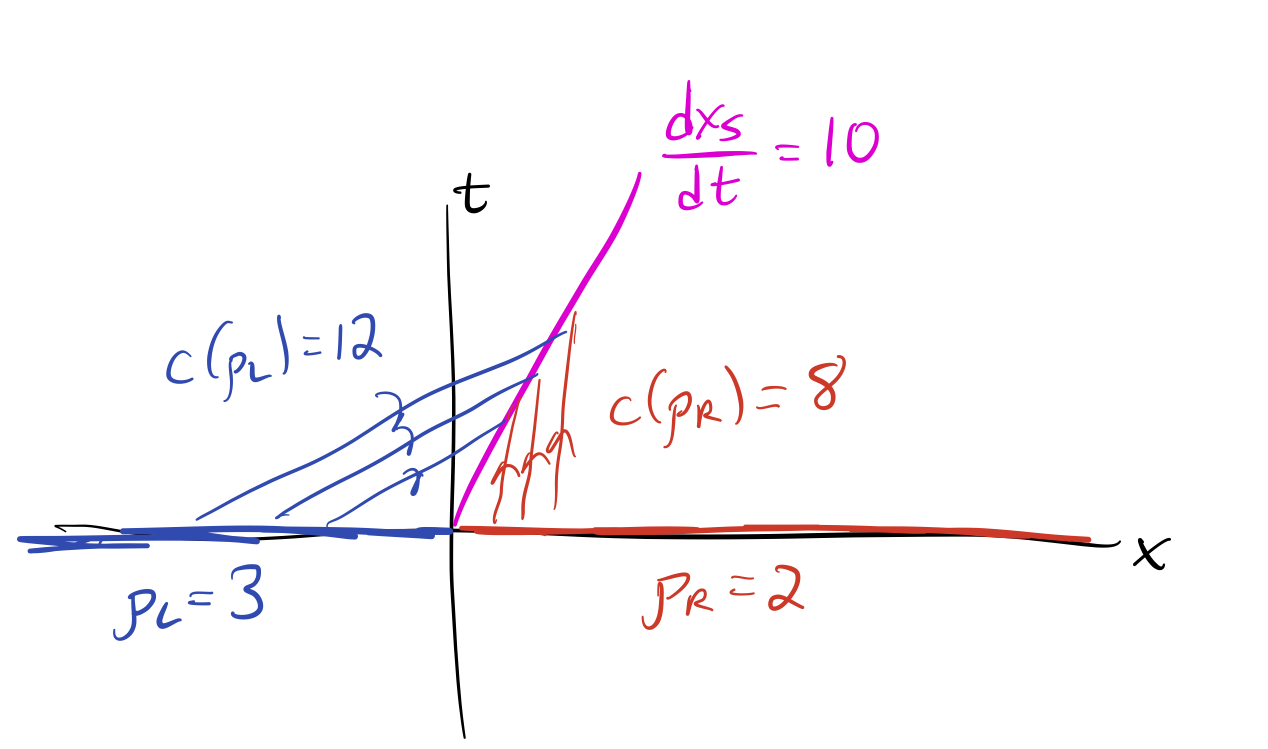
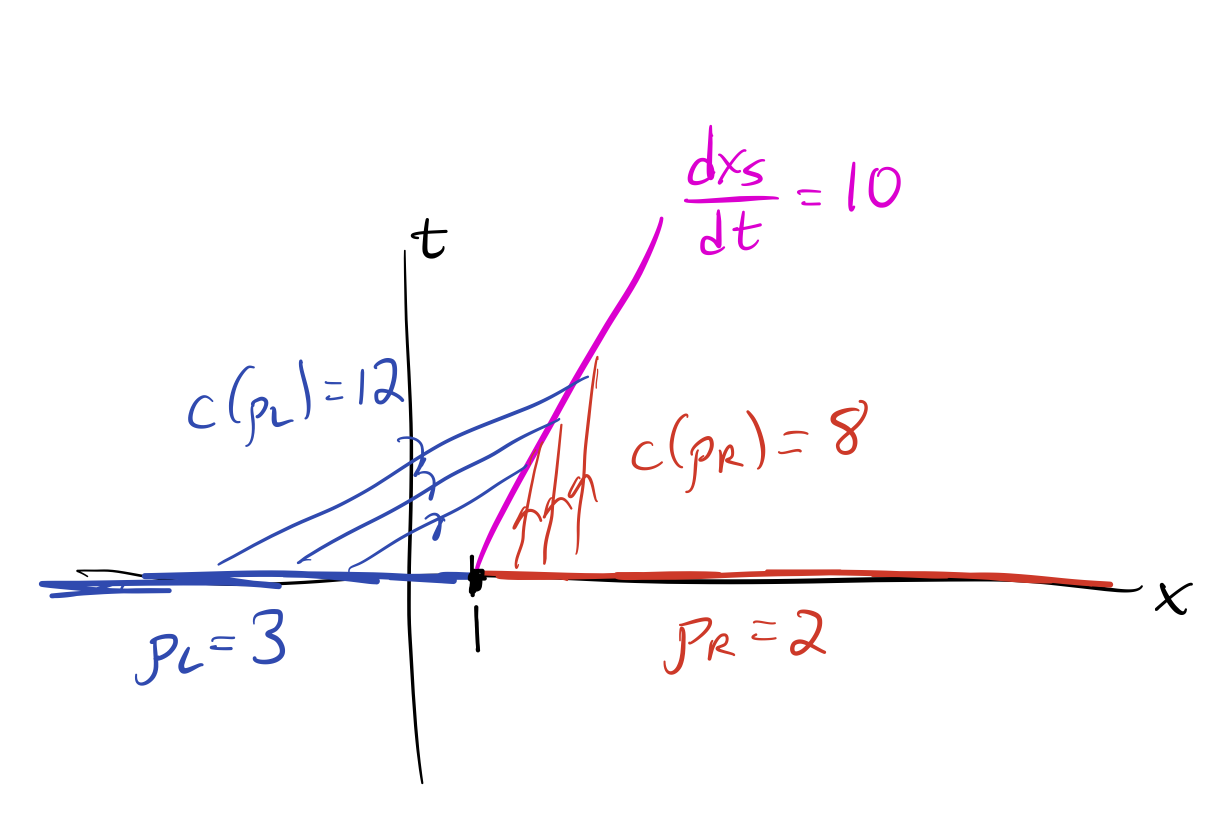
Add files via upload

Changed region(s): [[0.0, 0.2457, 0.9648, 0.9826], [0.498, 0.1228, 0.7469, 0.3071], [0.4668, 0.2764, 0.5291, 0.3992]]

diff --git a/412-hw10.html b/412-hw10.html
@@ -7626,7 +7626,7 @@ showing that characteristics on either side of the shock end at the shock.<br/>
 <h1 id="12.6.19">12.6.19<a class="anchor-link" href="#12.6.19">¶</a></h1><h2 id="(a)">(a)<a class="anchor-link" href="#(a)">¶</a></h2><p>We have $c(\rho) = \rho^2$ is strictly <b>increasing</b> (in contrast to the traffic model), and so $c(\rho_L) = c(4) &gt; c(3) = c(\rho_R)$, causing an immediate collision of characteristics for this "shock data".<br/>
 We need to write the equation in conservative form: we can take any antiderivative $\phi(\rho) = \int c(\rho) \, d\rho = \int \rho^2 \, d\rho$ to obtain
 $$\frac{\partial \rho}{\partial t} + \frac{\partial}{\partial x} \left( \frac{\rho^3}{3} \right) = 0.$$
-(Any integration constant woudn't be noticed by the PDE -- notice the derivative --- or by the jump condition --- since we only consider changes in flux.)</p>
+(Any integration constant wouldn't be noticed by the PDE -- notice the derivative --- or by the jump condition --- since we only consider changes in flux.)</p>
 <p>Then,
 $$[\phi] = \frac{3^3}{3} - \frac{4^3}{3} = -\frac{37}{3}, \qquad [\rho] = 3-4 = -1,$$
 leading to
@@ -7642,13 +7642,13 @@ The solution is then</p>
 <h2 id="(b)">(b)<a class="anchor-link" href="#(b)">¶</a></h2><p>We have $c(\rho) = 4\rho$ is strictly <b>increasing</b> (in contrast to the traffic model), and so $c(\rho_L) = c(3) &gt; c(2) = c(\rho_R)$, causing an immediate collision of characteristics for this "shock data".<br/>
 We need to write the equation in conservative form: we can take any antiderivative $\phi(\rho) = \int c(\rho) \, d\rho = \int \rho^2 \, d\rho$ to obtain
 $$\frac{\partial \rho}{\partial t} + \frac{\partial}{\partial x} \left( 2\rho^2 \right) = 0.$$
-(Any integration constant woudn't be noticed by the PDE -- notice the derivative --- or by the jump condition --- since we only consider changes in flux.)</p>
+(Any integration constant wouldn't be noticed by the PDE -- notice the derivative --- or by the jump condition --- since we only consider changes in flux.)</p>
 <p>Then,
 $$[\phi] = 2(2^2)-3(2^2) = -10, \qquad [\rho] = 2-3 = -1,$$
 leading to
 $$\frac{dx_s}{dt} = \frac{[\phi]}{[\rho]} = 10.$$
-The solution is then</p>
-<p>$$\boxed{\rho(x,t) = \left\{ \begin{array}{ll} 3 &amp; x &lt; 10t \\ \\ 2 &amp; x &gt; 10t\end{array} \right.} .$$</p>
+The solution is then (shock starts at $(x,t) = (1,0)$ with $\dfrac{dx_s}{dt} = 10$)</p>
+<p>$$\boxed{\rho(x,t) = \left\{ \begin{array}{ll} 3 &amp; x &lt; 1+10t \\ \\ 2 &amp; x &gt; 1+ 10t\end{array} \right.} .$$</p>
 <p>Notice</p>
 <p>$$c(\rho_L) = c(3) = 12 &gt; 8 = c(2) = c(\rho_R),$$</p>
 <p>and that</p>